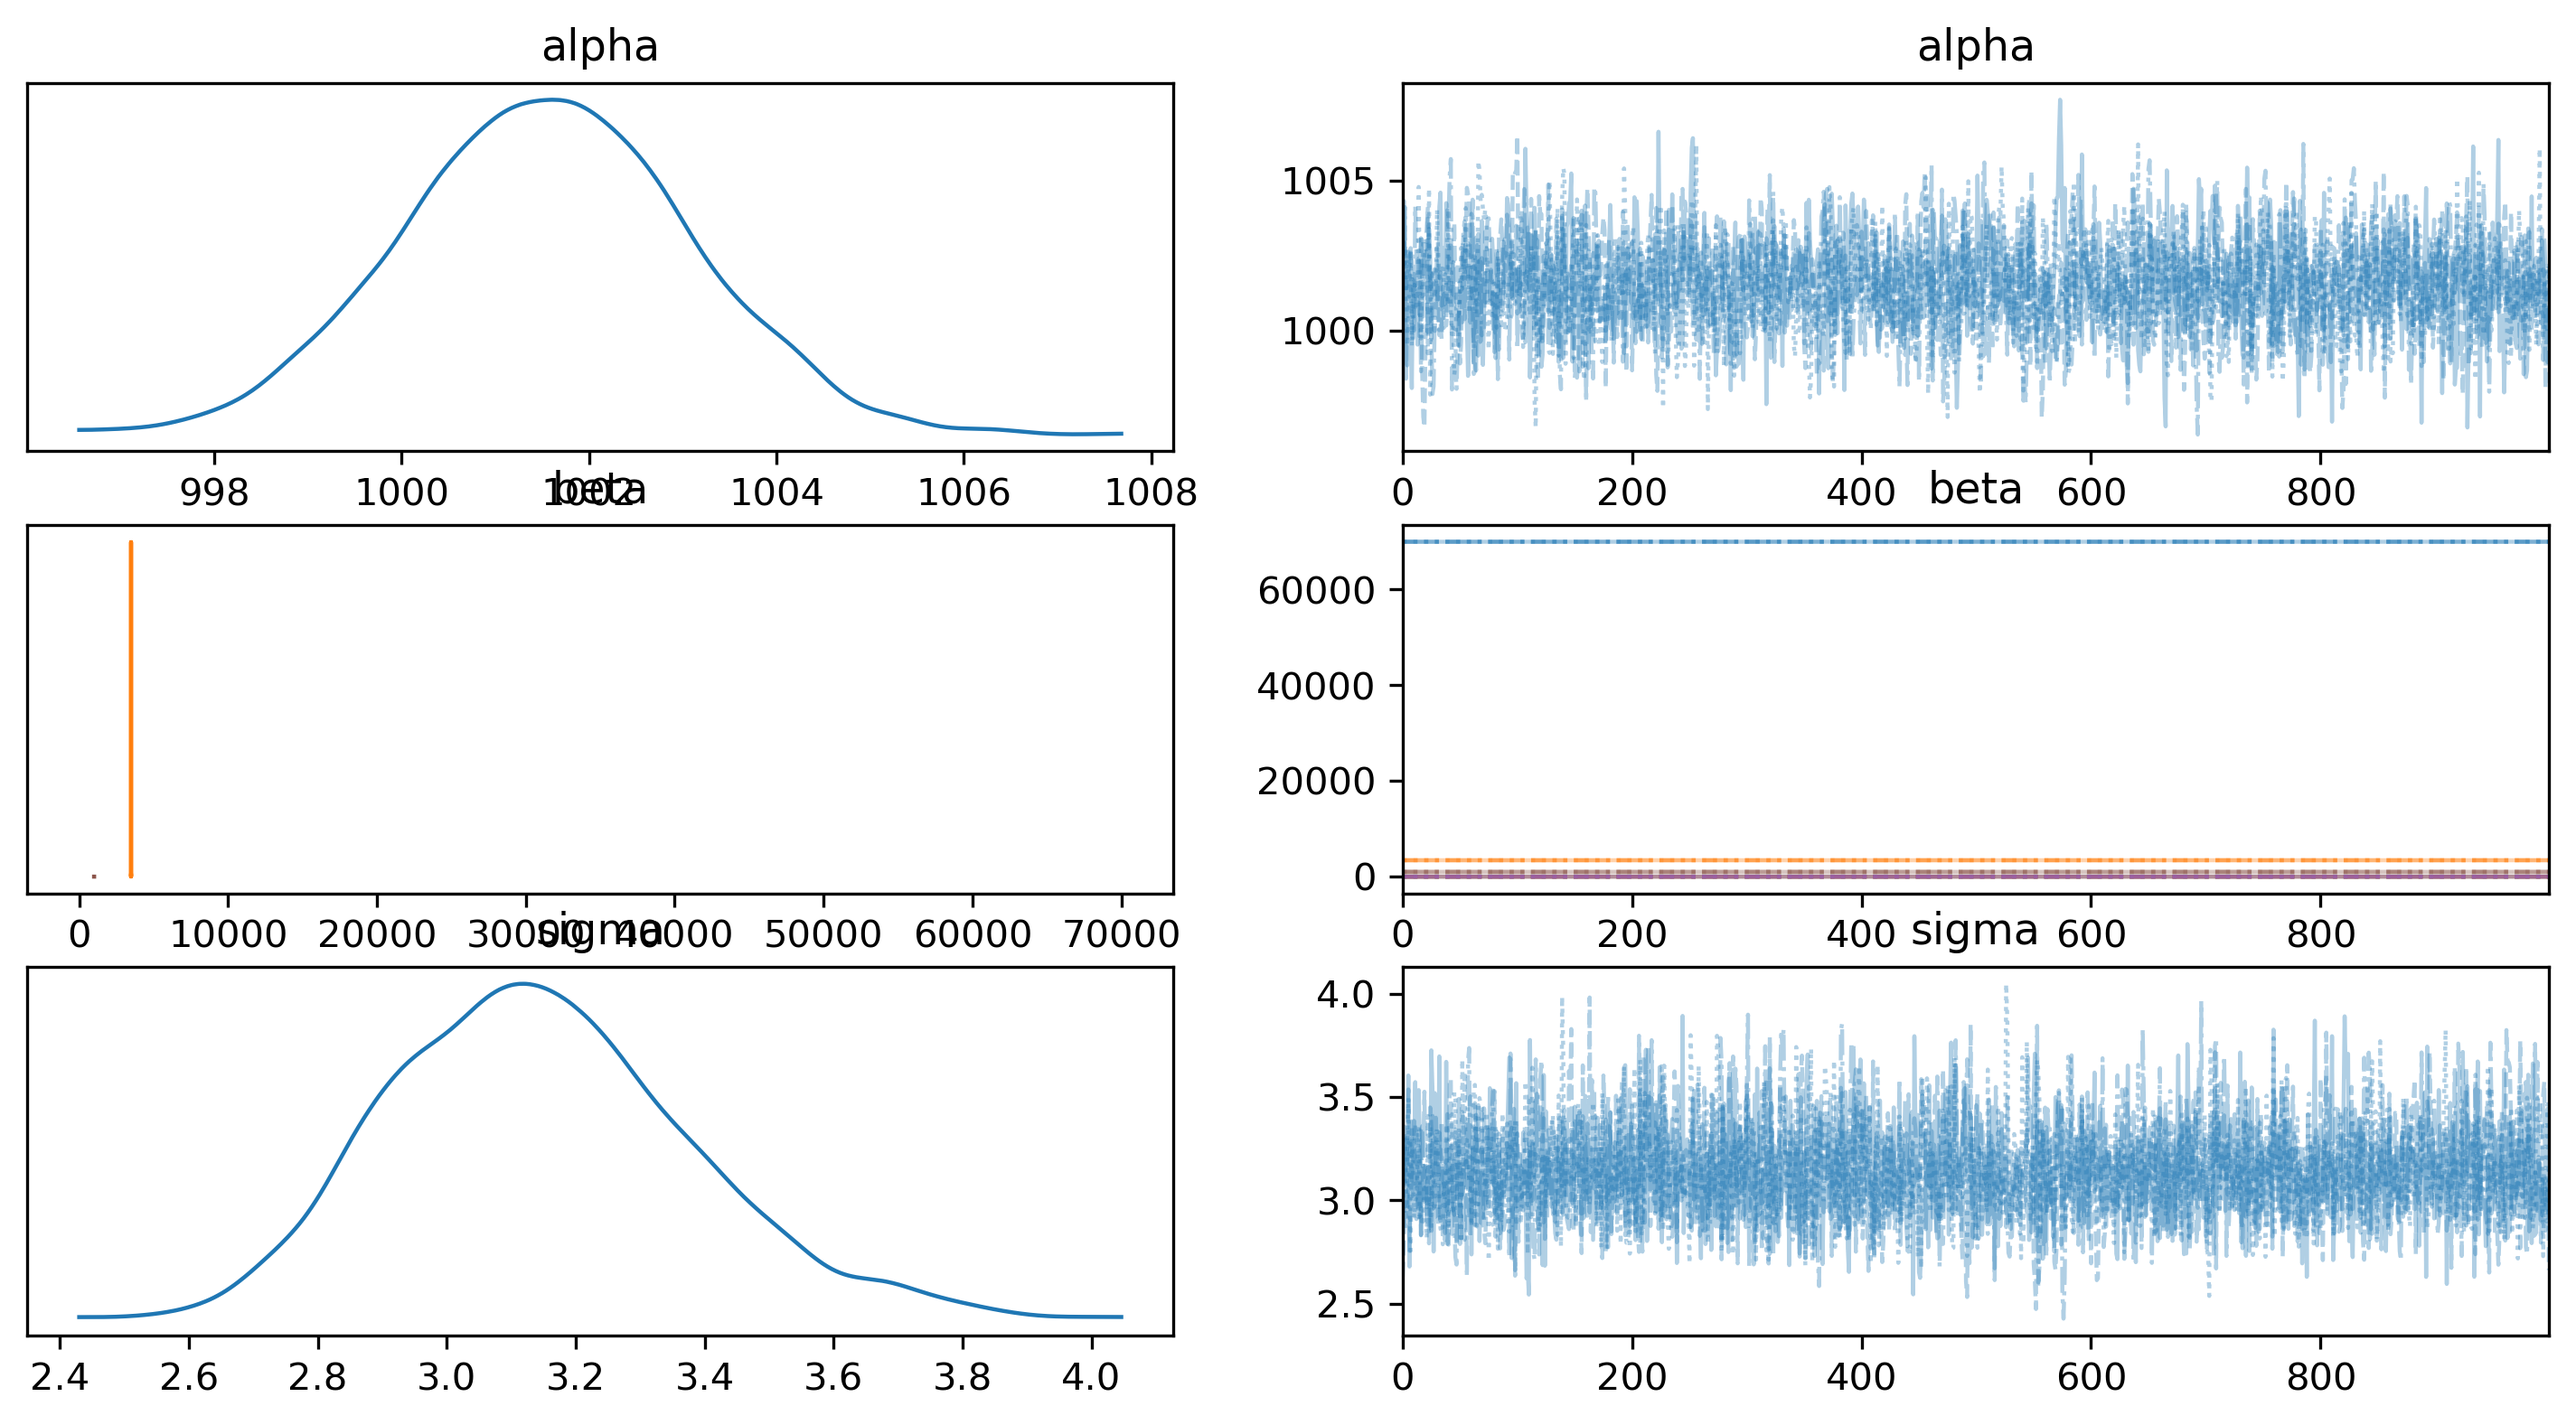
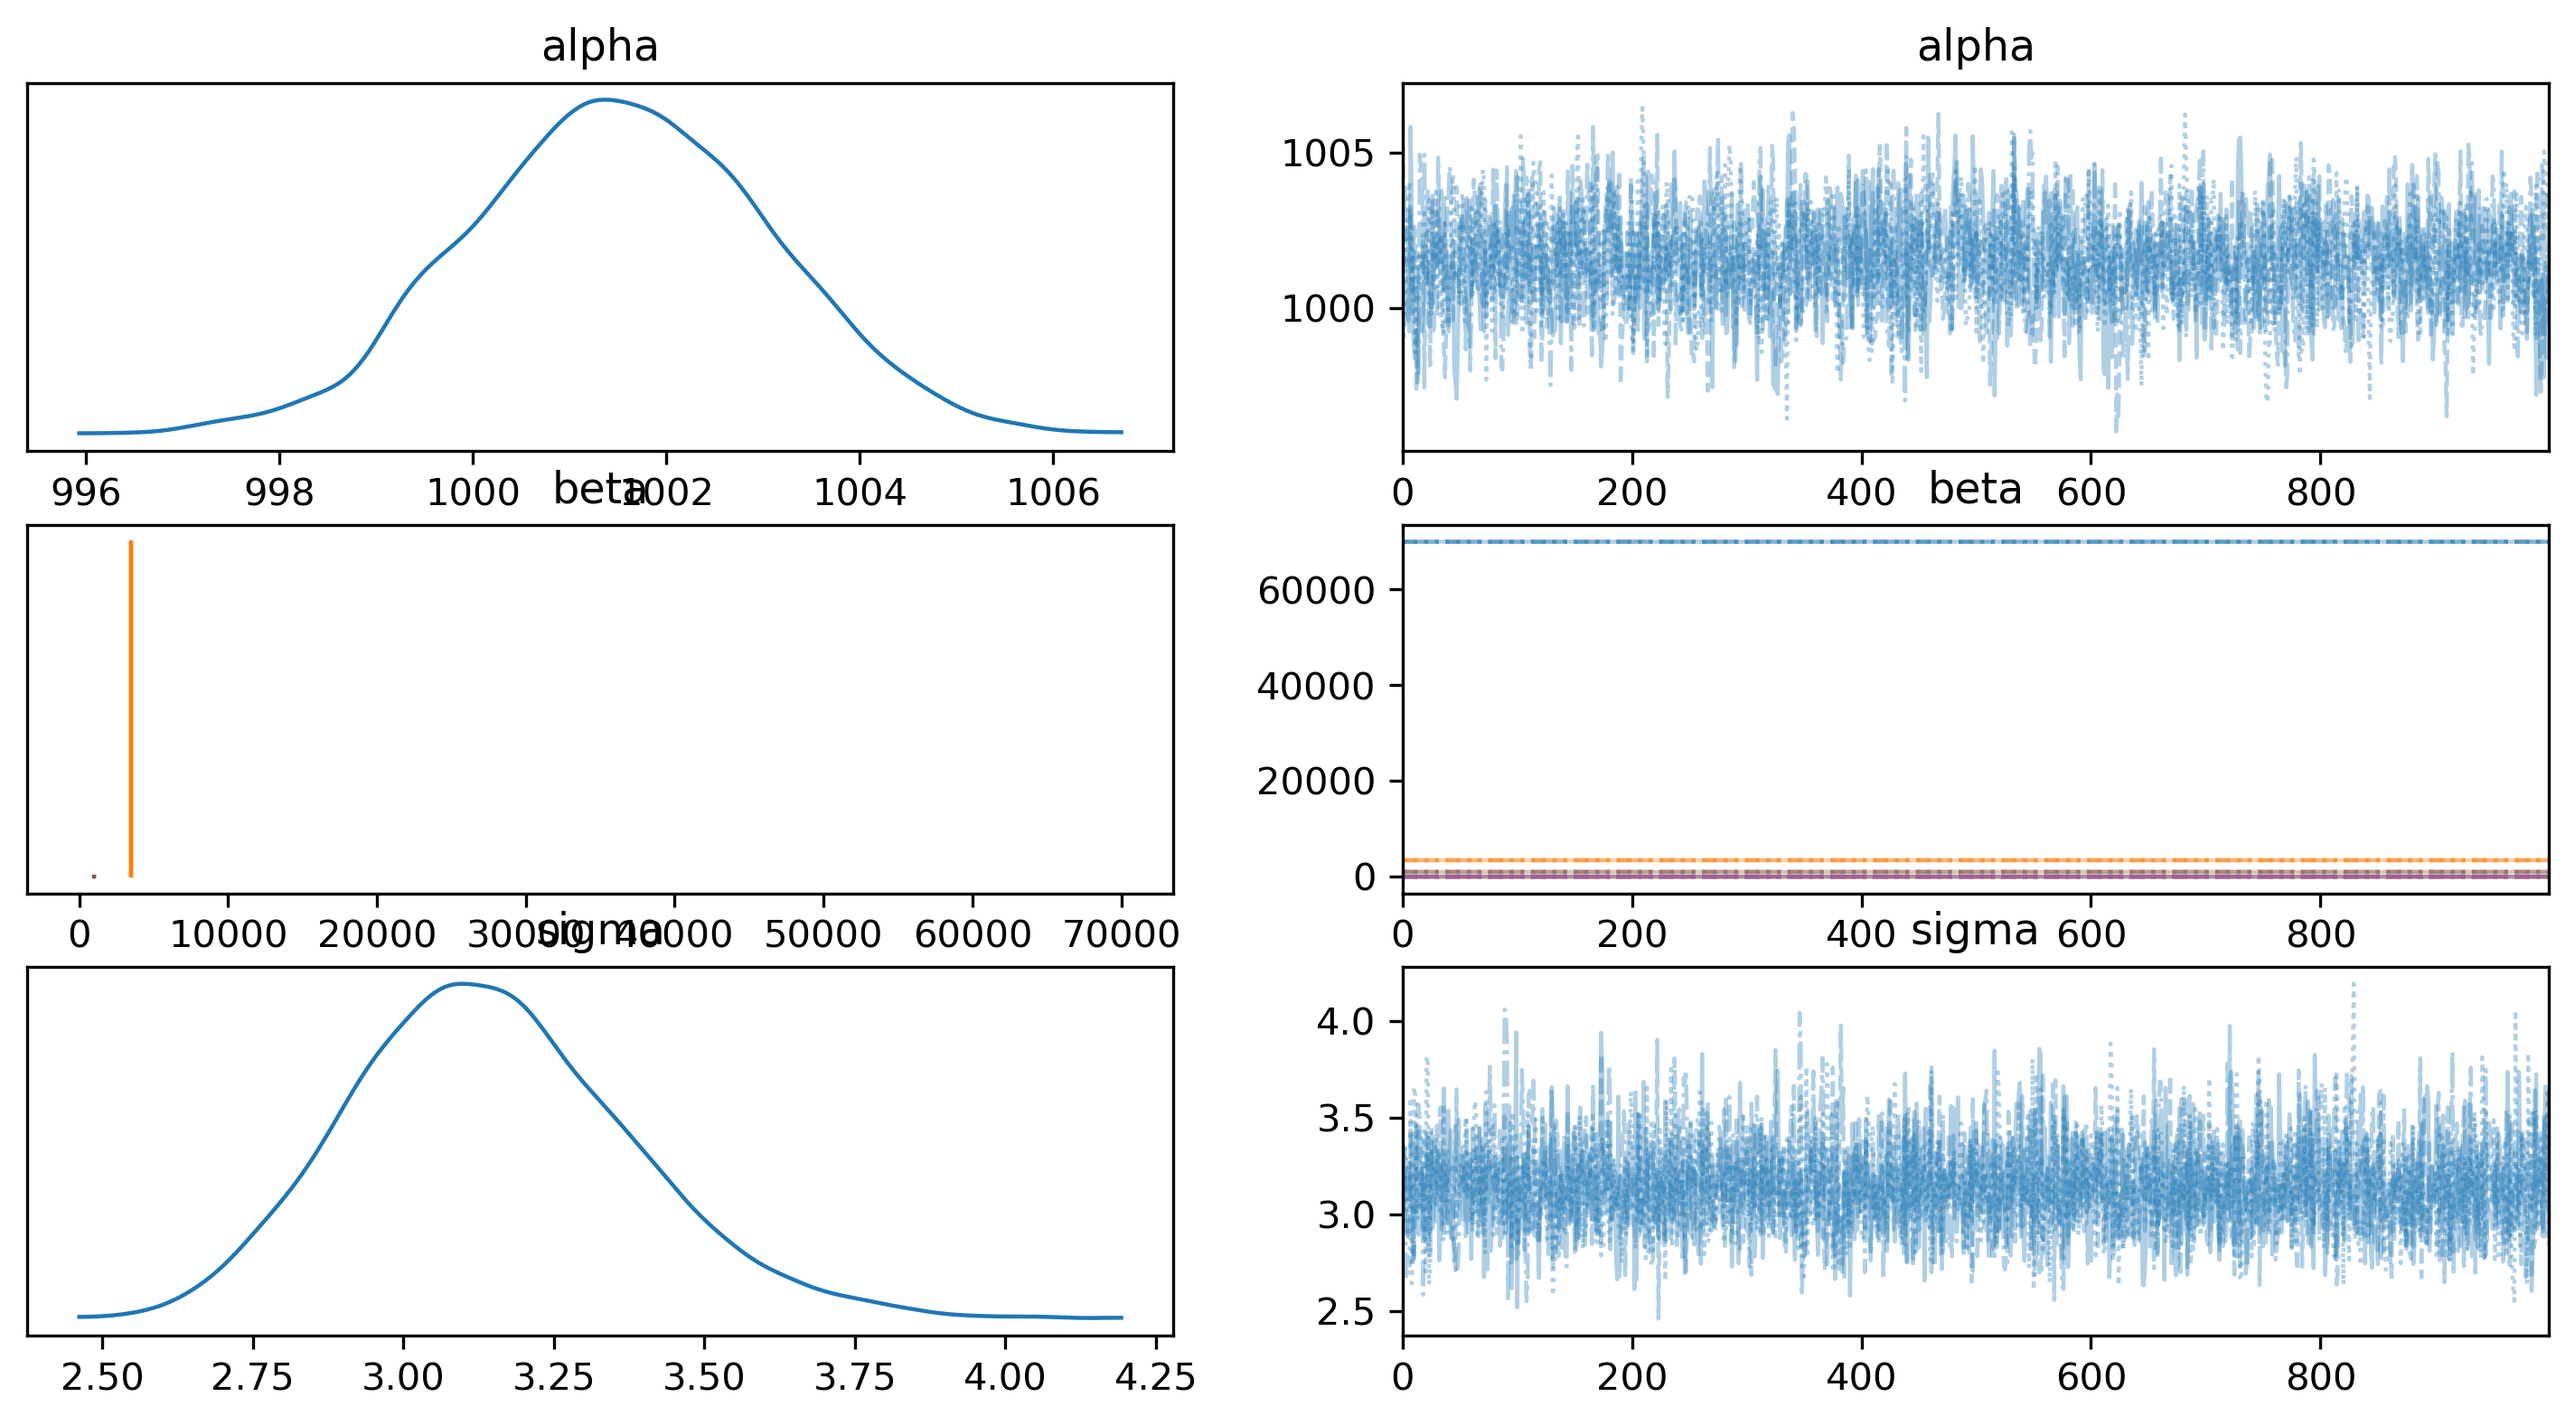
I think I've got the report done?

diff --git a/writing/report.md b/writing/report.md
@@ -409,9 +409,6 @@ az.plot_trace(trace, combined=True)
 
 # Save the figure as a file
 plt.savefig("trace_plot.png", dpi=300, bbox_inches="tight")
-
-# Show the plot (optional)
-plt.show()
 ```
 
     Initializing NUTS using jitter+adapt_diag...
@@ -428,24 +425,24 @@ Jupyter support
     Sampling 4 chains for 1_000 tune and 1_000 draw iterations (4_000 + 4_000 draws total) took 40 seconds.
 
                  mean    sd    hdi_3%   hdi_97%  mcse_mean  mcse_sd  ess_bulk  \
-    alpha     1001.54  1.54    998.75   1004.45       0.03     0.02   2134.35   
-    beta[0]  69999.86  0.16  69999.59  70000.18       0.00     0.00   2967.55   
-    beta[1]   3500.00  0.00   3500.00   3500.00       0.00     0.00   3741.18   
-    beta[2]      5.11  0.13      4.87      5.35       0.00     0.00   2683.50   
-    beta[3]      0.88  0.23      0.42      1.30       0.00     0.00   2661.24   
-    beta[4]      2.72  0.12      2.50      2.93       0.00     0.00   3131.58   
-    beta[5]   1000.17  0.66    998.88   1001.33       0.01     0.01   3663.39   
-    sigma        3.15  0.23      2.71      3.58       0.00     0.00   3740.10   
+    alpha     1001.52  1.55    998.92   1004.62       0.03     0.02   1968.57   
+    beta[0]  69999.87  0.16  69999.56  70000.16       0.00     0.00   2776.47   
+    beta[1]   3500.00  0.00   3500.00   3500.00       0.00     0.00   3388.06   
+    beta[2]      5.11  0.12      4.87      5.33       0.00     0.00   2777.60   
+    beta[3]      0.88  0.23      0.45      1.32       0.00     0.00   3125.01   
+    beta[4]      2.72  0.12      2.50      2.93       0.00     0.00   2974.97   
+    beta[5]   1000.16  0.66    998.88   1001.35       0.01     0.01   4124.04   
+    sigma        3.15  0.23      2.70      3.57       0.00     0.00   3620.76   
 
              ess_tail  r_hat  
-    alpha     2464.34    1.0  
-    beta[0]   2715.87    1.0  
-    beta[1]   3031.50    1.0  
-    beta[2]   2531.54    1.0  
-    beta[3]   2503.19    1.0  
-    beta[4]   2671.49    1.0  
-    beta[5]   2770.49    1.0  
-    sigma     3013.41    1.0  
+    alpha     2336.00    1.0  
+    beta[0]   2699.22    1.0  
+    beta[1]   2958.23    1.0  
+    beta[2]   2596.97    1.0  
+    beta[3]   2769.42    1.0  
+    beta[4]   2552.51    1.0  
+    beta[5]   2817.21    1.0  
+    sigma     2876.28    1.0  
 
 ![](report_files/figure-commonmark/cell-8-output-6.png)
 
@@ -454,19 +451,21 @@ Jupyter support
 ## Milestone 8: Intermediate Presentation
 
 See my intermediate presentation [Intermediate Presentation
-Slides](https://github.com/marcdotson/causal-inference/blob/main/presentations/multivariate-models.html).
+Slides](https://github.com/RebeccaHull/causal_inference/blob/main/presentations/Intermediate_CI_Presentation_Hull.html).
 To summarize some feedback:
 
-- Lorem ipsum dolor sit amet, consectetur adipiscing elit, sed do
-  eiusmod tempor incididunt ut labore et dolore magna aliqua.
-- Ut enim ad minim veniam, quis nostrud exercitation ullamco laboris
-  nisi ut aliquip ex ea commodo consequat.
-- Duis aute irure dolor in reprehenderit in voluptate velit esse cillum
-  dolore eu fugiat nulla pariatur.
-- Excepteur sint occaecat cupidatat non proident, sunt in culpa qui
-  officia deserunt mollit anim id est laborum.
+- I need to make sure my salary histogram does not have a bin nor data
+  that goes below 0.
+- I need to make sure that my CLV histogram has touching bars.
+  Additionally, set the number of bins to something that makes sense for
+  the data (so in my case, more bins).
 
 ## Milestone 9: Run Conjoint Experiment
+
+I ran a conjoint experiment through a survey using Discover Sawtooth
+Software. I was testing how desirable different package deals (with
+specified benefits) were for different loyalty cards. I got 33
+responses. Here are my results:
 
 ![DAG](../figures/Airline%20Loyalty%20Conjoint%20Survey%20-%20Ever%20been%20on%20a%20plane_%20Chart.png)
 
@@ -502,16 +501,117 @@ To summarize some feedback:
 
 ## Milestone 10: Implement Diff-in-Diff Strategy
 
+``` python
+import arviz as az
+import numpy as np
+import pandas as pd
+import pymc as pm
+import seaborn as sns
+
+# Outcomes
+
+def outcome(t, control_intercept, treat_intercept_delta, trend, Δ, group, treated):
+    return control_intercept + (treat_intercept_delta * group) + (trend * t) + (Δ * treated * group)
+
+def is_treated(t, intervention_time, group):
+    return (t > intervention_time) * group
+
+# True parameters
+control_intercept = 5000  # CLV for non-members
+baseline_treat_intercept = 6000  # CLV for Aurora before upgrade
+trend = 3000  # General CLV increase over time
+Δ = 2000  # Treatment effect: additional CLV boost from upgrading to Star
+intervention_time = 0.5  # When the upgrade happens
+
+# Generating Synthetic Dataset
+df = pd.DataFrame(
+    {
+        "group": [0, 0, 1, 1] * 10,  # 0 = No Loyalty Card, 1 = Aurora
+        "t": [0.0, 1.0, 0.0, 1.0] * 10,  # Time periods (Pre/Post)
+        "unit": np.concatenate([[i] * 2 for i in range(20)]),
+    }
+)
+
+df["treated"] = is_treated(df["t"], intervention_time, df["group"])
+
+df["y"] = outcome(
+    df["t"],
+    control_intercept,
+    baseline_treat_intercept - control_intercept,  # Initial difference in CLV
+    trend,
+    Δ,
+    df["group"],
+    df["treated"],
+)
+df["y"] += np.random.normal(0, 500, df.shape[0])  # Add noise
+
+# Frequentist Diff-in-Diff Calculation
+diff_control = (
+    df.loc[(df["t"] == 1) & (df["group"] == 0)]["y"].mean()
+    - df.loc[(df["t"] == 0) & (df["group"] == 0)]["y"].mean()
+)
+print(f"Pre/post difference in control group = {diff_control:.2f}")
+
+diff_treat = (
+    df.loc[(df["t"] == 1) & (df["group"] == 1)]["y"].mean()
+    - df.loc[(df["t"] == 0) & (df["group"] == 1)]["y"].mean()
+)
+
+print(f"Pre/post difference in treatment group = {diff_treat:.2f}")
+
+diff_in_diff = diff_treat - diff_control
+print(f"Difference in differences = {diff_in_diff:.2f}")
+
+# Bayesian Approach
+with pm.Model() as model:
+    # Data
+    t = pm.MutableData("t", df["t"].values, dims="obs_idx")
+    treated = pm.MutableData("treated", df["treated"].values, dims="obs_idx")
+    group = pm.MutableData("group", df["group"].values, dims="obs_idx")
+    # Priors
+    _control_intercept = pm.Normal("control_intercept", 5000, 1000)
+    _treat_intercept_delta = pm.Normal("treat_intercept_delta", 1000, 1000)
+    _trend = pm.Normal("trend", 3000, 1000)
+    _Δ = pm.Normal("Δ", 2000, 1000)
+    sigma = pm.HalfNormal("sigma", 500)
+    # Expectation
+    mu = pm.Deterministic(
+        "mu",
+        outcome(t, _control_intercept, _treat_intercept_delta, _trend, _Δ, group, treated),
+        dims="obs_idx",
+    )
+    # Likelihood
+    pm.Normal("obs", mu, sigma, observed=df["y"].values, dims="obs_idx")
+
+with model:
+    idata = pm.sample()
+
+az.plot_trace(idata, var_names="~mu");
+
+
+
+# Results
+# Pre/post difference in control group = 3006.32
+# Pre/post difference in treatment group = 4935.59
+# Difference in differences = 1929.27
+```
+
+Those who upgraded to a higher loyalty status (aka got the treatment)
+had an increase of \$1929.27 in CLV after they upgraded from an Aurora
+card to a higher status loyalty card.
+
 ## Milestone 11: Clean Up Project Report
 
 I created and cleaned up my project report in the writing folder.
 
-The CLV histogram now have bins that touch and a more appropriate number
-of bins.
+A few changes I made:
 
-The Salary histogram no longer has a bin below zero (since you can’t
-have a negative salary).
+- The CLV histogram now have bins that touch and a more appropriate
+  number of bins.
 
-I updated my DAG along the way.
+- The Salary histogram no longer has a bin below zero (since you can’t
+  have a negative salary).
+
+- I updated my DAG along the way.
 
 ![DAG](../figures/DAG_CLV.jpg)
